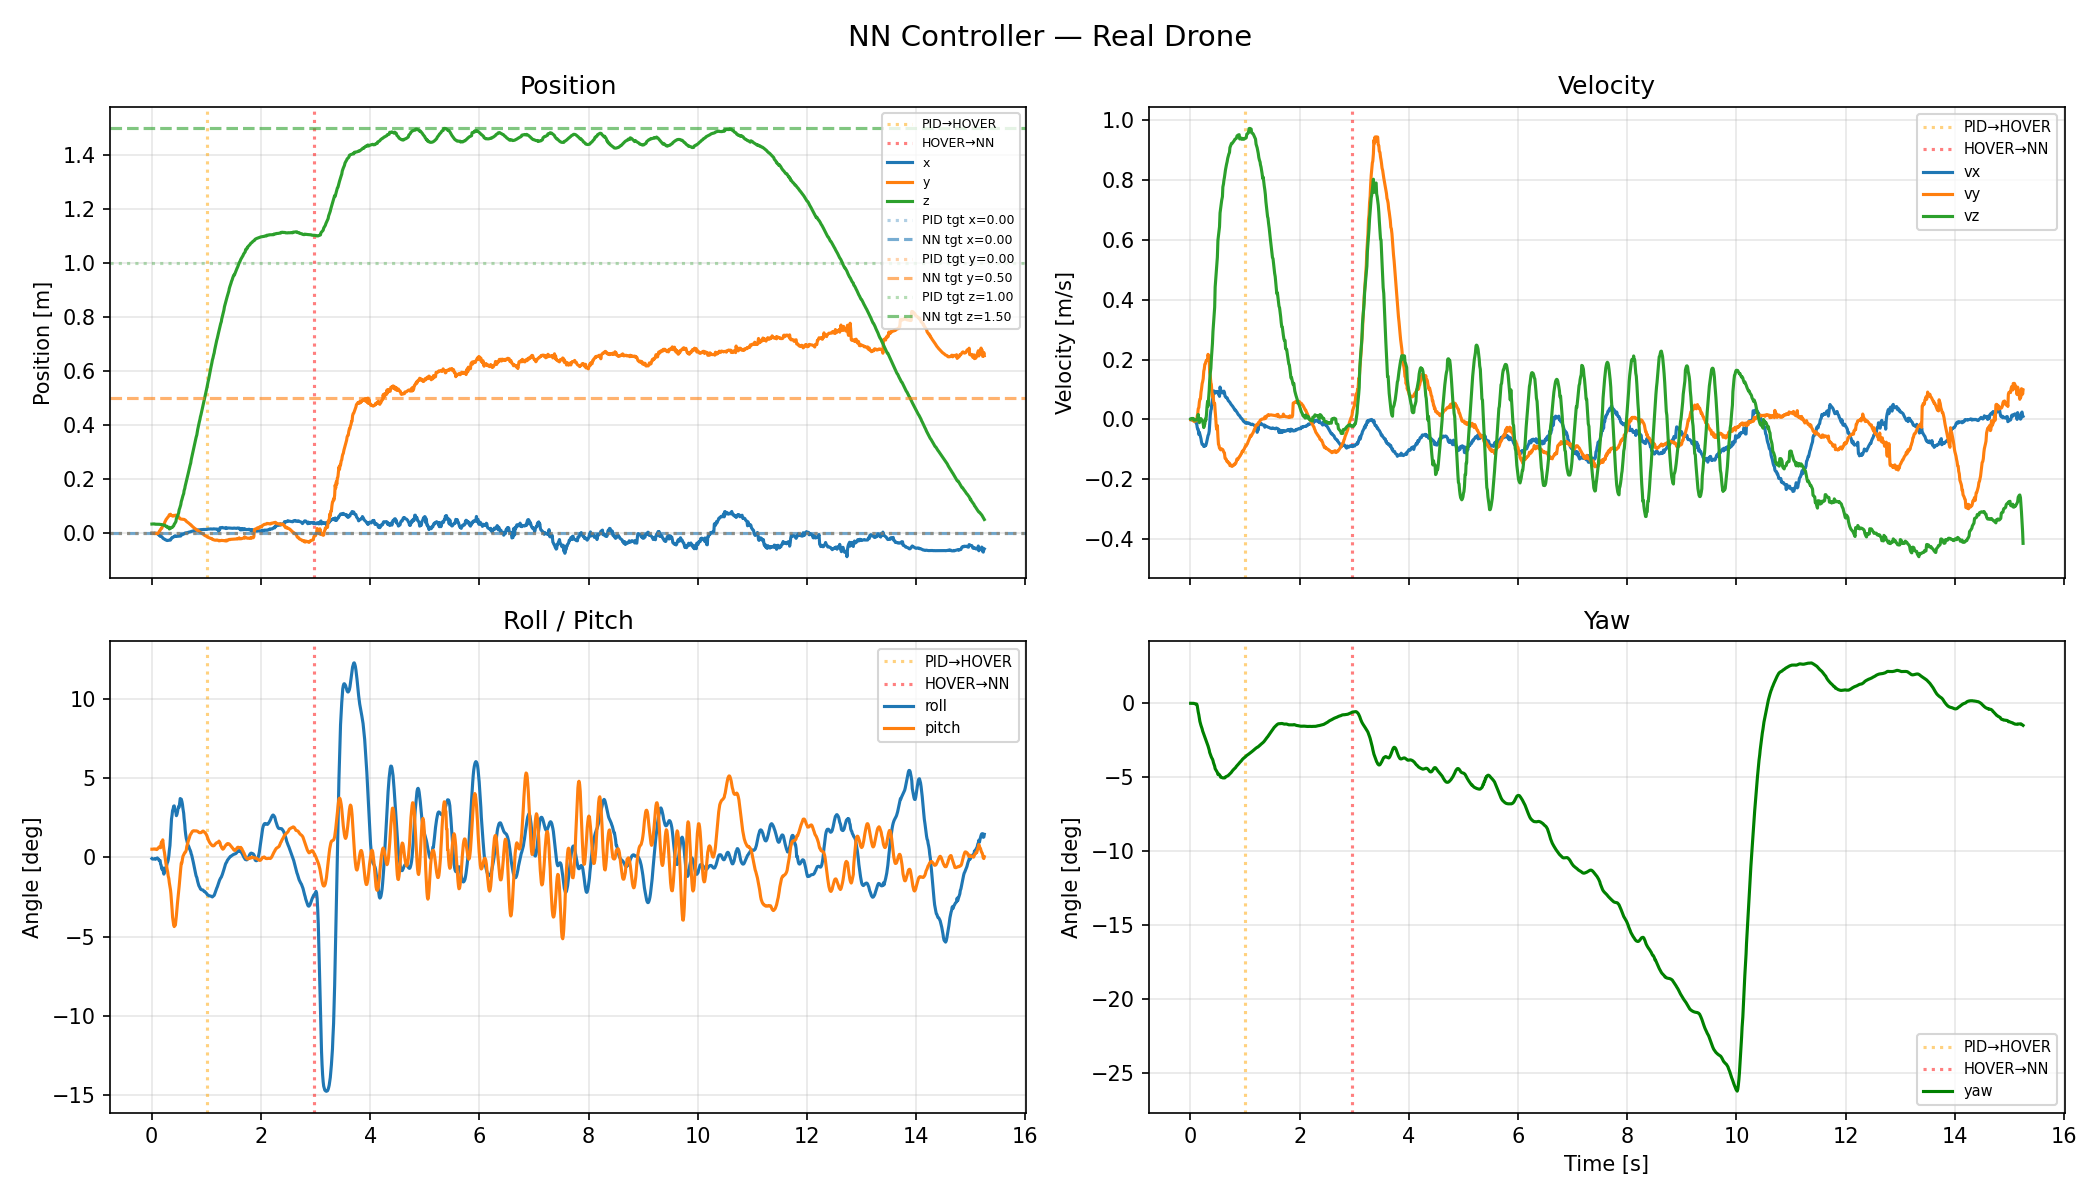
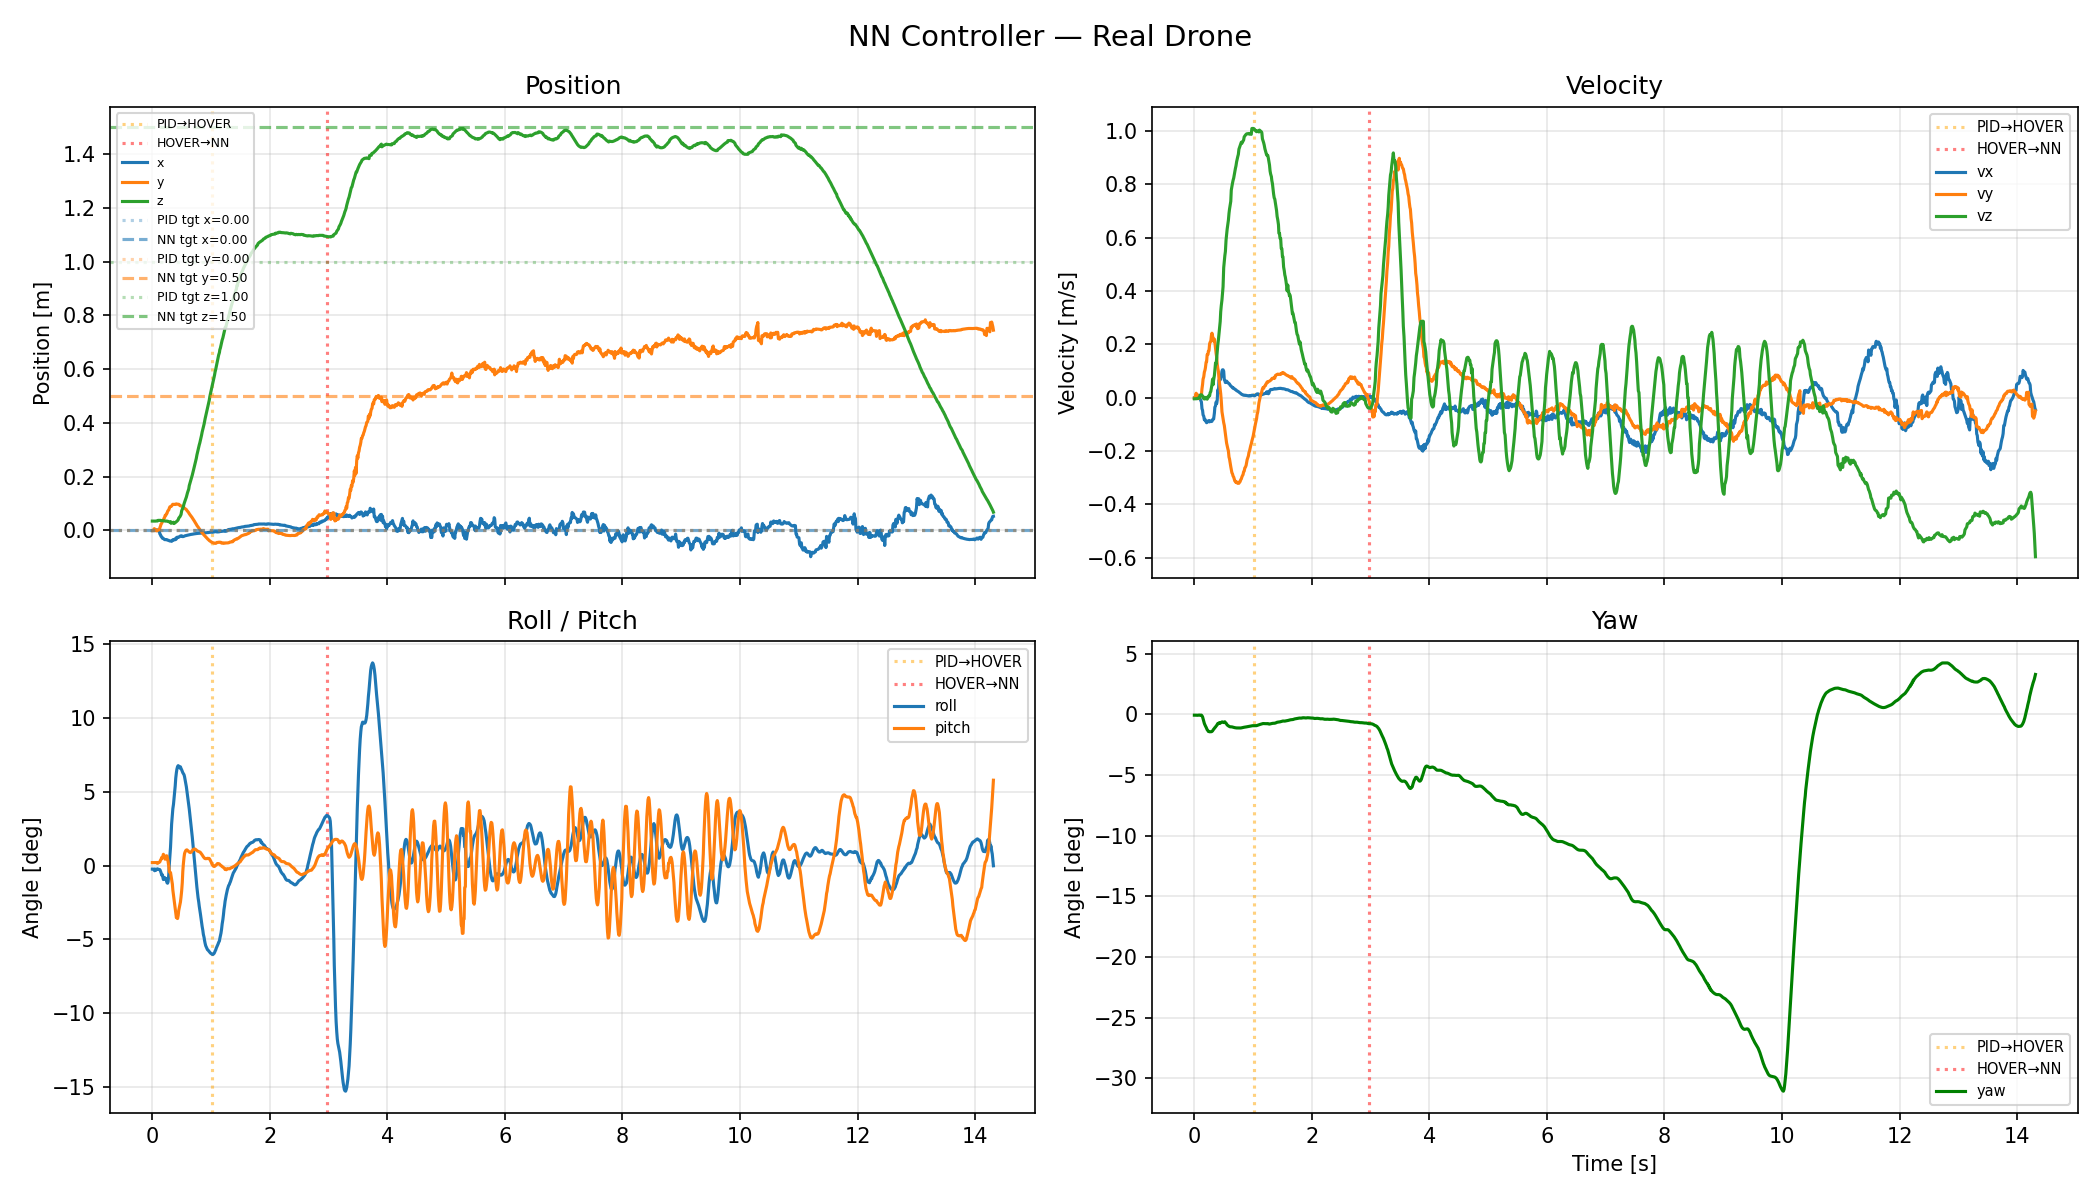
closer sim real code, and new plots

diff --git a/training_regulation_simu_and_real/fly_nn_cf_pid.py b/training_regulation_simu_and_real/fly_nn_cf_pid.py
@@ -208,19 +208,47 @@ def query_nn_chunk(policy: ConcurrentPolicyMLP, state_12: np.ndarray,
 
 
 # ===================================================================
+#  Shared trajectory helpers (identical profiles for sim & real)
+# ===================================================================
+
+def takeoff_ramp_z(target_z: float, elapsed: float, max_duration: float,
+                   ramp_frac: float = 0.8) -> float:
+    """Linear ramp used during Phase 0 (PID takeoff), identical sim & real.
+
+    Reaches target_z at ramp_frac * max_duration, then stays there.
+    """
+    frac = min(1.0, elapsed / (max_duration * ramp_frac))
+    return target_z * frac
+
+
+def landing_ramp_z(start_z: float, elapsed: float, duration: float) -> float:
+    """Smoothstep ramp used during landing, identical sim & real.
+
+    Follows z = start_z * (1 - (3 f^2 - 2 f^3)) with f in [0, 1].
+    """
+    frac = min(1.0, max(0.0, elapsed / max(duration, 1e-6)))
+    return start_z * (1.0 - (3.0 * frac ** 2 - 2.0 * frac ** 3))
+
+
+# ===================================================================
 #  SIM mode
 # ===================================================================
 
 def run_sim_nn(ckpt_path: str, takeoff_pos=(0, 0, 0.5), target_pos=(0, 0, 1),
                duration_sec: float = 15, takeoff_max_duration: float = 3.0,
                hover_duration: float = 0.0,
+               land_duration: float = None,
                gui: bool = True, plot: bool = True,
                device: str = "cpu"):
     """Run NN controller in PyBullet simulation.
 
     Phase 0 (PID):   Position+Velocity PID climbs to takeoff_pos
+                     using the same linear z-ramp as the real-drone mode
     Phase 1 (HOVER): PID holds takeoff_pos for hover_duration seconds
     Phase 2 (NN):    NN regulates to target_pos
+    Phase 3 (LAND):  PID brings the drone down along the same smoothstep
+                     profile used by the real-drone landing, so the two
+                     trajectories match end-to-end.
 
     The attitude + rate PIDs run continuously at 500 Hz throughout,
     ensuring a smooth handover between phases.
@@ -261,7 +289,6 @@ def run_sim_nn(ckpt_path: str, takeoff_pos=(0, 0, 0.5), target_pos=(0, 0, 1),
 
     nn_target = np.array(target_pos, dtype=np.float64)
     pid_target = np.array(takeoff_pos, dtype=np.float64)
-    n_steps = int(CTRL_FREQ * duration_sec)
 
     PHASE_SWITCH_RADIUS = 0.05   # m — switch to HOVER when within 5 cm of pid_target
     PHASE_SWITCH_MAX_SEC = takeoff_max_duration  # hard cap: switch anyway after takeoff_max_duration
@@ -269,13 +296,33 @@ def run_sim_nn(ckpt_path: str, takeoff_pos=(0, 0, 0.5), target_pos=(0, 0, 1),
     PHASE_PID = 0
     PHASE_HOVER = 1
     PHASE_NN = 2
+    PHASE_LAND = 3
     current_phase = PHASE_PID
     hover_start_step: int = 0
+    land_start_step: int = 0
+    land_start_pos: np.ndarray = pid_target.copy()   # filled when LAND begins
+
+    # Landing duration: same rule as real mode (z / 0.3 m/s, min 1 s) by default.
+    # In sim we must pre-size the log arrays, so we estimate using nn_target[2]
+    # (the expected end-of-NN altitude). The actual descent profile is computed
+    # from the current pos when PHASE_LAND begins, identical to the real mode.
+    if land_duration is None:
+        land_duration_effective = max(1.0, float(nn_target[2]) / 0.3)
+    else:
+        land_duration_effective = max(0.0, float(land_duration))
+
+    SETTLE_TIME = 1.0  # On ajoute 1.5s pour voir le drone se poser
+    total_duration_sec = duration_sec + land_duration_effective + SETTLE_TIME
 
     print(f"[SIM] PYB={PYB_FREQ}Hz  CTRL={CTRL_FREQ}Hz  NN={NN_FREQ}Hz")
     print(f"[SIM] PID target={pid_target}  NN target={nn_target}  "
           f"Duration={duration_sec}s  Switch radius={PHASE_SWITCH_RADIUS}m  "
-          f"Hover={hover_duration}s")
+          f"Hover={hover_duration}s  Land={land_duration_effective:.1f}s")
+
+    n_steps = int(CTRL_FREQ * total_duration_sec)
+
+    # Step index at which the NN phase ends and landing starts
+    land_start_step_planned = int(CTRL_FREQ * duration_sec)
 
     # ---- Logging ----------------------------------------------------
     log_t = np.zeros(n_steps)
@@ -330,13 +377,45 @@ def run_sim_nn(ckpt_path: str, takeoff_pos=(0, 0, 0.5), target_pos=(0, 0, 1),
                 current_phase = PHASE_NN
                 print(f"[SIM] NN takeover at t={i / CTRL_FREQ:.1f}s (hover done)  "
                       f"pos=[{pos[0]:+.3f},{pos[1]:+.3f},{pos[2]:.3f}]")
+        elif current_phase == PHASE_NN:
+            # Switch to landing once the requested flight duration has elapsed,
+            # mirroring the real-mode behaviour (landing happens after the NN phase).
+            if land_duration_effective > 0.0 and i >= land_start_step_planned:
+                current_phase = PHASE_LAND
+                land_start_step = i
+                land_start_pos = pos.copy()
+                print(f"[SIM] LAND start at t={i / CTRL_FREQ:.1f}s  "
+                      f"pos=[{pos[0]:+.3f},{pos[1]:+.3f},{pos[2]:.3f}]  "
+                      f"land={land_duration_effective:.1f}s")
 
         # ---- High-level controller (100 Hz) -------------------------
         if i % nn_divider == 0:
-            if current_phase == PHASE_PID or current_phase == PHASE_HOVER:
-                # Phase PID/HOVER: Position + Velocity PID → pid_target
+            if current_phase == PHASE_PID:
+                # Phase PID: same linear z-ramp as the real-drone mode,
+                # so position setpoints match end-to-end.
+                elapsed_sec = i / CTRL_FREQ
+                z_sp = takeoff_ramp_z(pid_target[2], elapsed_sec,
+                                      takeoff_max_duration, ramp_frac=0.8)
+                ramped_target = (pid_target[0], pid_target[1], z_sp)
                 thrust_cmd, roll_des, pitch_des = pos_ctrl.update(
-                    pid_target, tuple(pos), tuple(vel), rpy_deg[2])
+                    ramped_target, tuple(pos), tuple(vel), rpy_deg[2])
+                yaw_rate_cmd = 0.0
+            elif current_phase == PHASE_HOVER:
+                # Phase HOVER: hold pid_target exactly (same as real mode's
+                # send_position_setpoint(pid_target[0], pid_target[1], pid_target[2], 0)).
+                thrust_cmd, roll_des, pitch_des = pos_ctrl.update(
+                    tuple(pid_target), tuple(pos), tuple(vel), rpy_deg[2])
+                yaw_rate_cmd = 0.0
+            elif current_phase == PHASE_LAND:
+                # Phase LAND: same smoothstep descent as the real-drone mode.
+                land_elapsed = (i - land_start_step) / CTRL_FREQ
+                z_sp = landing_ramp_z(land_start_pos[2], land_elapsed,
+                                      land_duration_effective)
+                if z_sp < 0.05:
+                    z_sp = 0.05
+                land_sp = (land_start_pos[0], land_start_pos[1], z_sp)
+                thrust_cmd, roll_des, pitch_des = pos_ctrl.update(
+                    land_sp, tuple(pos), tuple(vel), rpy_deg[2])
                 yaw_rate_cmd = 0.0
             else:
                 # Phase NN: NN controller — query at 100 Hz, use first action
@@ -390,14 +469,20 @@ def run_sim_nn(ckpt_path: str, takeoff_pos=(0, 0, 0.5), target_pos=(0, 0, 1),
         log_nn_cmd[i] = [thrust_cmd, roll_des, pitch_des, yaw_rate_cmd]
         log_phase[i] = current_phase
 
-        if i % CTRL_FREQ == 0:
-            t = i / CTRL_FREQ
-            phase_label = {PHASE_PID: "PID  ", PHASE_HOVER: "HOVER", PHASE_NN: "NN   "}[current_phase]
-            current_target = pid_target if current_phase != PHASE_NN else nn_target
-            err = np.linalg.norm(pos - current_target)
-            print(f"  t={t:5.1f}s [{phase_label}]  "
-                  f"pos=[{pos[0]:+.3f},{pos[1]:+.3f},{pos[2]:.3f}]  "
-                  f"err={err:.4f}m  thrust={thrust_cmd:.0f}")
+        #if i % CTRL_FREQ == 0:
+        #    t = i / CTRL_FREQ
+        #    phase_label = {PHASE_PID: "PID  ", PHASE_HOVER: "HOVER",
+        #                   PHASE_NN: "NN   ", PHASE_LAND: "LAND "}[current_phase]
+        #    if current_phase == PHASE_NN:
+        #        current_target = nn_target
+        #    elif current_phase == PHASE_LAND:
+        #        current_target = np.array([land_start_pos[0], land_start_pos[1], 0.0])
+        #    else:
+        #        current_target = pid_target
+        #    err = np.linalg.norm(pos - current_target)
+        #    print(f"  t={t:5.1f}s [{phase_label}]  "
+        #          f"pos=[{pos[0]:+.3f},{pos[1]:+.3f},{pos[2]:.3f}]  "
+        #          f"err={err:.4f}m  thrust={thrust_cmd:.0f}")
 
         if gui:
             sync(i, START, 1.0 / CTRL_FREQ)
@@ -418,7 +503,8 @@ def run_sim_nn(ckpt_path: str, takeoff_pos=(0, 0, 0.5), target_pos=(0, 0, 1),
     data = dict(t=log_t, pos=log_pos, vel=log_vel, rpy=log_rpy,
                 rpms=log_rpms, thrust=log_thrust, nn_cmd=log_nn_cmd,
                 phase=log_phase, pid_target=pid_target, nn_target=nn_target,
-                PHASE_PID=PHASE_PID, PHASE_HOVER=PHASE_HOVER, PHASE_NN=PHASE_NN)
+                PHASE_PID=PHASE_PID, PHASE_HOVER=PHASE_HOVER,
+                PHASE_NN=PHASE_NN, PHASE_LAND=PHASE_LAND)
     if plot:
         _plot_nn_sim(data)
     return data
@@ -450,11 +536,14 @@ def _plot_nn_sim(data: dict):
     phase = data['phase']
     PHASE_HOVER = data['PHASE_HOVER']
     PHASE_NN = data['PHASE_NN']
+    PHASE_LAND = data.get('PHASE_LAND', -1)
 
     # Actual transition times from phase log
     hover_start_idx = np.argmax(phase == PHASE_HOVER) if np.any(phase == PHASE_HOVER) else None
     nn_start_idx = np.argmax(phase == PHASE_NN) if np.any(phase == PHASE_NN) else len(t) - 1
     nn_switch_sec = t[nn_start_idx]
+    land_start_idx = np.argmax(phase == PHASE_LAND) if np.any(phase == PHASE_LAND) else None
+    land_switch_sec = t[land_start_idx] if land_start_idx is not None else None
 
     fig, axes = plt.subplots(3, 2, figsize=(14, 10), sharex=True)
     fig.suptitle('NN Controller + CF Firmware Attitude/Rate PID', fontsize=14)
@@ -467,6 +556,9 @@ def _plot_nn_sim(data: dict):
                            label='PID\u2192HOVER')
             ax.axvline(nn_switch_sec, color='red', ls=':', alpha=0.5,
                        label='HOVER\u2192NN' if hover_start_idx is not None else 'PID\u2192NN')
+            if land_switch_sec is not None:
+                ax.axvline(land_switch_sec, color='purple', ls=':', alpha=0.5,
+                           label='NN\u2192LAND')
 
     # -- Position --
     ax = axes[0, 0]
@@ -548,12 +640,16 @@ def run_real_nn(ckpt_path: str, takeoff_pos=(0, 0, 0.5), target_pos=(0, 0, 1),
                 uri: str = "radio://0/80/2M/E7E7E7E7E7",
                 duration_sec: float = 15, takeoff_max_duration: float = 3.0,
                 hover_duration: float = 0.0,
+                land_duration: float = None,
                 device: str = "cpu"):
     """Run NN controller on a real Crazyflie via Crazyradio.
 
-    Phase 0 (PID):   send_position_setpoint climbs to takeoff_pos
+    Phase 0 (PID):   send_position_setpoint climbs to takeoff_pos via a
+                     linear z-ramp (shared helper with sim mode)
     Phase 1 (HOVER): holds takeoff_pos for hover_duration seconds
     Phase 2 (NN):    NN outputs attitude + thrust regulating to target_pos
+    Phase 3 (LAND):  smoothstep descent to the ground (shared helper with
+                     sim mode), using land_duration or ~0.3 m/s default.
 
     The drone's onboard attitude + rate PIDs handle low-level stabilisation.
     """
@@ -661,13 +757,13 @@ def run_real_nn(ckpt_path: str, takeoff_pos=(0, 0, 0.5), target_pos=(0, 0, 1),
         try:
             print(f"[REAL] Phase 0: PID takeoff to {pid_target} "
                   f"(max {takeoff_max_duration}s, switch radius={PHASE_SWITCH_RADIUS}m)...")
-            takeoff_steps_max = int(TAKEOFF_FREQ * takeoff_max_duration)
             i = 0
             while True:
                 elapsed = time.time() - START
-                # Smooth z ramp: reach pid_target at 80% of max takeoff time
-                frac = min(1.0, (i + 1) / (takeoff_steps_max * 0.8))
-                z = pid_target[2] * frac
+                # Same linear z-ramp as the simulation (shared helper):
+                # reaches pid_target[2] at 80% of takeoff_max_duration.
+                z = takeoff_ramp_z(pid_target[2], elapsed,
+                                   takeoff_max_duration, ramp_frac=0.8)
                 cf.commander.send_position_setpoint(
                     pid_target[0], pid_target[1], z, 0.0)
 
@@ -745,18 +841,23 @@ def run_real_nn(ckpt_path: str, takeoff_pos=(0, 0, 0.5), target_pos=(0, 0, 1),
         except KeyboardInterrupt:
             print("\n[REAL] Interrupted!")
         finally:
-            # ---- Smooth landing -----
+            # ---- Smooth landing (same smoothstep profile as sim) -----
             print("[REAL] Landing...")
             land_x = drone_state['x']
             land_y = drone_state['y']
             land_z = drone_state['z']
-            land_duration = max(1.0, land_z / 0.3)
+            # Same default rule as sim: ~0.3 m/s descent, min 1 s.
+            if land_duration is None:
+                land_duration_effective = max(1.0, land_z / 0.3)
+            else:
+                land_duration_effective = max(0.0, float(land_duration))
             LAND_FREQ = 20
-            land_steps = int(LAND_FREQ * land_duration)
+            land_steps = int(LAND_FREQ * land_duration_effective)
+            land_start_t = time.time()
 
             for j in range(land_steps):
-                frac = (j + 1) / land_steps
-                z = land_z * (1.0 - (3 * frac ** 2 - 2 * frac ** 3))
+                land_elapsed = time.time() - land_start_t
+                z = landing_ramp_z(land_z, land_elapsed, land_duration_effective)
                 if z < 0.05:
                     break
                 cf.commander.send_position_setpoint(
@@ -887,6 +988,9 @@ MODES:
                         help='Crazyflie radio URI (for real mode)')
     parser.add_argument('--hover-duration', default=2.0, type=float,
                         help='Hover duration between PID and NN phases [s] (default: 2.0)')
+    parser.add_argument('--land-duration', default=None, type=float,
+                        help='Landing duration [s] (default: None). '
+                             'Used identically in sim and real modes.')
     parser.add_argument('--no-plot', dest='plot', action='store_false',
                         help='Disable post-flight plots')
     args = parser.parse_args()
@@ -900,12 +1004,14 @@ MODES:
         run_sim_nn(args.weights, takeoff_pos=takeoff_pos, target_pos=target_pos,
                    duration_sec=args.duration, takeoff_max_duration=args.takeoff_max_duration,
                    hover_duration=args.hover_duration,
+                   land_duration=args.land_duration,
                    gui=args.gui, plot=args.plot, device=device)
     elif args.mode == 'attitude':
         run_real_nn(args.weights, takeoff_pos=takeoff_pos, target_pos=target_pos,
                     uri=args.uri,
                     duration_sec=args.duration, takeoff_max_duration=args.takeoff_max_duration,
                     hover_duration=args.hover_duration,
+                    land_duration=args.land_duration,
                     device=device)
 
 
